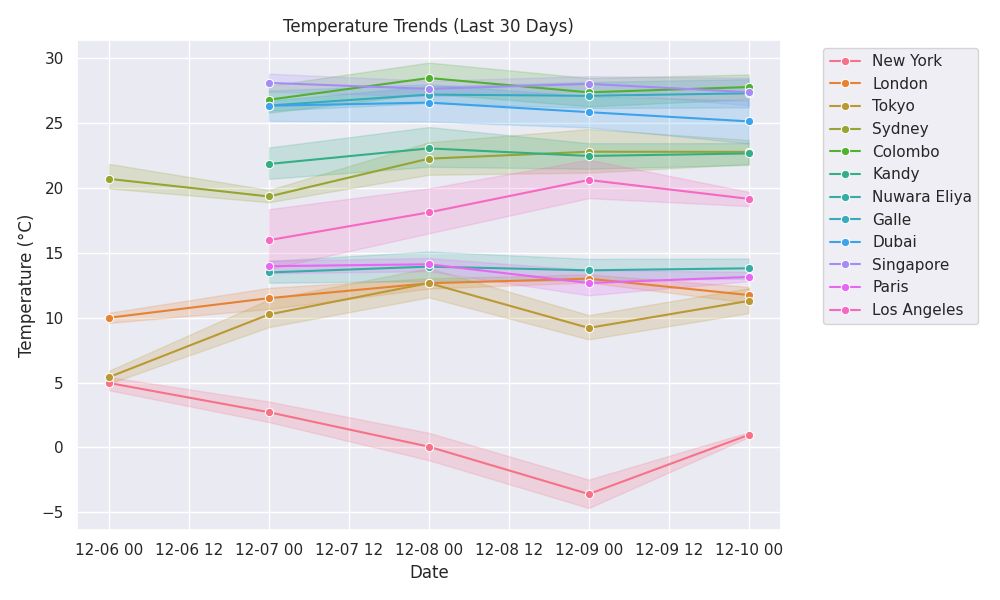
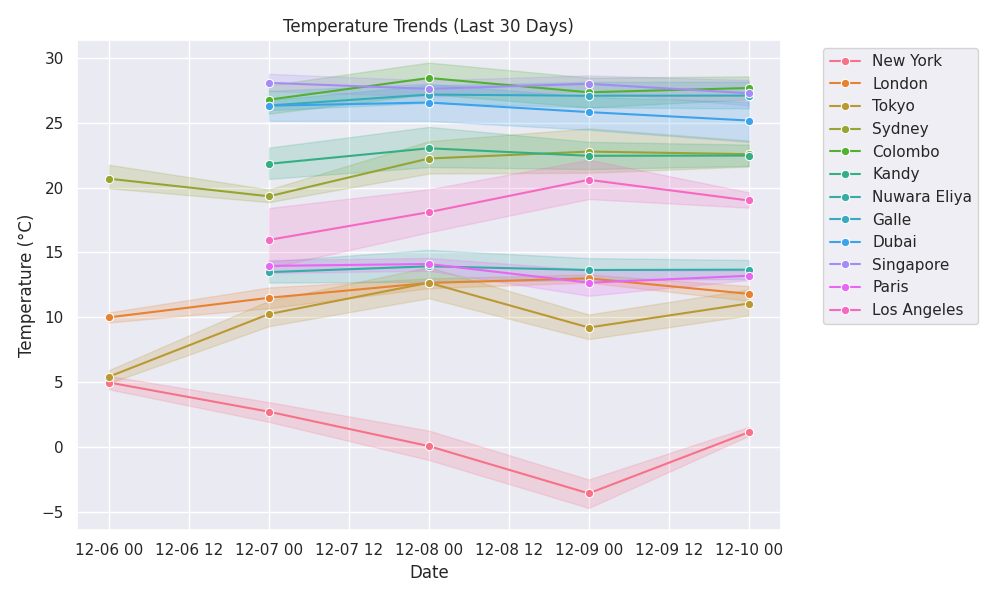
🌦 Weather update: 2025-12-10 15:16

diff --git a/public/index.html b/public/index.html
@@ -11,7 +11,7 @@
     <div class="max-w-6xl mx-auto">
         <header class="mb-8 text-center">
             <h1 class="text-4xl font-bold mb-2">🌍 Global Weather Dashboard</h1>
-            <p class="text-slate-400">Last Updated: 2025-12-10 14:16:04</p>
+            <p class="text-slate-400">Last Updated: 2025-12-10 15:16:43</p>
         </header>
         
         <!-- AI Summary -->
@@ -29,12 +29,12 @@
                     <span class="text-3xl">☁</span>
                 </div>
                 <div class="mt-4">
-                    <p class="text-4xl font-bold">14.14°C</p>
-                    <p class="text-slate-400 capitalize">broken clouds</p>
+                    <p class="text-4xl font-bold">14.05°C</p>
+                    <p class="text-slate-400 capitalize">overcast clouds</p>
                 </div>
                 <div class="mt-4 text-sm text-slate-500">
-                    <p>💧 Humidity: 80%</p>
-                    <p>💨 Wind: 3.6 m/s</p>
+                    <p>💧 Humidity: 79%</p>
+                    <p>💨 Wind: 3.09 m/s</p>
                 </div>
             </div>
             
@@ -44,12 +44,12 @@
                     <span class="text-3xl">☁</span>
                 </div>
                 <div class="mt-4">
-                    <p class="text-4xl font-bold">13.32°C</p>
+                    <p class="text-4xl font-bold">12.65°C</p>
                     <p class="text-slate-400 capitalize">few clouds</p>
                 </div>
                 <div class="mt-4 text-sm text-slate-500">
-                    <p>💧 Humidity: 68%</p>
-                    <p>💨 Wind: 7.2 m/s</p>
+                    <p>💧 Humidity: 70%</p>
+                    <p>💨 Wind: 6.69 m/s</p>
                 </div>
             </div>
             
@@ -59,12 +59,12 @@
                     <span class="text-3xl">☁</span>
                 </div>
                 <div class="mt-4">
-                    <p class="text-4xl font-bold">20.31°C</p>
+                    <p class="text-4xl font-bold">20.14°C</p>
                     <p class="text-slate-400 capitalize">overcast clouds</p>
                 </div>
                 <div class="mt-4 text-sm text-slate-500">
-                    <p>💧 Humidity: 86%</p>
-                    <p>💨 Wind: 10.29 m/s</p>
+                    <p>💧 Humidity: 85%</p>
+                    <p>💨 Wind: 9.77 m/s</p>
                 </div>
             </div>
             
@@ -78,8 +78,8 @@
                     <p class="text-slate-400 capitalize">broken clouds</p>
                 </div>
                 <div class="mt-4 text-sm text-slate-500">
-                    <p>💧 Humidity: 93%</p>
-                    <p>💨 Wind: 1.03 m/s</p>
+                    <p>💧 Humidity: 92%</p>
+                    <p>💨 Wind: 2.06 m/s</p>
                 </div>
             </div>
             
@@ -93,8 +93,8 @@
                     <p class="text-slate-400 capitalize">clear sky</p>
                 </div>
                 <div class="mt-4 text-sm text-slate-500">
-                    <p>💧 Humidity: 53%</p>
-                    <p>💨 Wind: 4.12 m/s</p>
+                    <p>💧 Humidity: 57%</p>
+                    <p>💨 Wind: 3.6 m/s</p>
                 </div>
             </div>
             
@@ -104,12 +104,12 @@
                     <span class="text-3xl">☁</span>
                 </div>
                 <div class="mt-4">
-                    <p class="text-4xl font-bold">12.03°C</p>
+                    <p class="text-4xl font-bold">11.97°C</p>
                     <p class="text-slate-400 capitalize">overcast clouds</p>
                 </div>
                 <div class="mt-4 text-sm text-slate-500">
                     <p>💧 Humidity: 98%</p>
-                    <p>💨 Wind: 1.55 m/s</p>
+                    <p>💨 Wind: 1.84 m/s</p>
                 </div>
             </div>
             
@@ -119,12 +119,12 @@
                     <span class="text-3xl">☁</span>
                 </div>
                 <div class="mt-4">
-                    <p class="text-4xl font-bold">24.54°C</p>
+                    <p class="text-4xl font-bold">24.74°C</p>
                     <p class="text-slate-400 capitalize">overcast clouds</p>
                 </div>
                 <div class="mt-4 text-sm text-slate-500">
-                    <p>💧 Humidity: 94%</p>
-                    <p>💨 Wind: 3.42 m/s</p>
+                    <p>💧 Humidity: 90%</p>
+                    <p>💨 Wind: 3.39 m/s</p>
                 </div>
             </div>
             
@@ -134,12 +134,12 @@
                     <span class="text-3xl">☁</span>
                 </div>
                 <div class="mt-4">
-                    <p class="text-4xl font-bold">20.53°C</p>
+                    <p class="text-4xl font-bold">20.22°C</p>
                     <p class="text-slate-400 capitalize">overcast clouds</p>
                 </div>
                 <div class="mt-4 text-sm text-slate-500">
-                    <p>💧 Humidity: 96%</p>
-                    <p>💨 Wind: 2.0 m/s</p>
+                    <p>💧 Humidity: 97%</p>
+                    <p>💨 Wind: 2.1 m/s</p>
                 </div>
             </div>
             
@@ -150,11 +150,11 @@
                 </div>
                 <div class="mt-4">
                     <p class="text-4xl font-bold">26.69°C</p>
-                    <p class="text-slate-400 capitalize">moderate rain</p>
+                    <p class="text-slate-400 capitalize">light rain</p>
                 </div>
                 <div class="mt-4 text-sm text-slate-500">
-                    <p>💧 Humidity: 78%</p>
-                    <p>💨 Wind: 7.63 m/s</p>
+                    <p>💧 Humidity: 79%</p>
+                    <p>💨 Wind: 6.91 m/s</p>
                 </div>
             </div>
             
@@ -164,12 +164,12 @@
                     <span class="text-3xl">☁</span>
                 </div>
                 <div class="mt-4">
-                    <p class="text-4xl font-bold">1.83°C</p>
-                    <p class="text-slate-400 capitalize">overcast clouds</p>
+                    <p class="text-4xl font-bold">3.24°C</p>
+                    <p class="text-slate-400 capitalize">broken clouds</p>
                 </div>
                 <div class="mt-4 text-sm text-slate-500">
-                    <p>💧 Humidity: 78%</p>
-                    <p>💨 Wind: 5.14 m/s</p>
+                    <p>💧 Humidity: 74%</p>
+                    <p>💨 Wind: 6.69 m/s</p>
                 </div>
             </div>
             
@@ -179,12 +179,12 @@
                     <span class="text-3xl">☁</span>
                 </div>
                 <div class="mt-4">
-                    <p class="text-4xl font-bold">9.22°C</p>
+                    <p class="text-4xl font-bold">8.11°C</p>
                     <p class="text-slate-400 capitalize">few clouds</p>
                 </div>
                 <div class="mt-4 text-sm text-slate-500">
-                    <p>💧 Humidity: 61%</p>
-                    <p>💨 Wind: 6.17 m/s</p>
+                    <p>💧 Humidity: 64%</p>
+                    <p>💨 Wind: 3.6 m/s</p>
                 </div>
             </div>
             
@@ -194,12 +194,12 @@
                     <span class="text-3xl">☁</span>
                 </div>
                 <div class="mt-4">
-                    <p class="text-4xl font-bold">18.75°C</p>
+                    <p class="text-4xl font-bold">17.14°C</p>
                     <p class="text-slate-400 capitalize">few clouds</p>
                 </div>
                 <div class="mt-4 text-sm text-slate-500">
-                    <p>💧 Humidity: 37%</p>
-                    <p>💨 Wind: 0.89 m/s</p>
+                    <p>💧 Humidity: 44%</p>
+                    <p>💨 Wind: 2.06 m/s</p>
                 </div>
             </div>
             

diff --git a/README.md b/README.md
@@ -8,8 +8,8 @@
 
 ---
 
-## ⚡ Live Status (Updated: 2025-12-10 14:16 UTC)
-![Paris](https://img.shields.io/badge/Paris-14.14°C-blue) ![London](https://img.shields.io/badge/London-13.32°C-blue) ![Sydney](https://img.shields.io/badge/Sydney-20.31°C-green) ![Singapore](https://img.shields.io/badge/Singapore-26.18°C-orange) ![Dubai](https://img.shields.io/badge/Dubai-25.96°C-orange) ![Nuwara Eliya](https://img.shields.io/badge/Nuwara%20Eliya-12.03°C-blue) ![Galle](https://img.shields.io/badge/Galle-24.54°C-green) ![Kandy](https://img.shields.io/badge/Kandy-20.53°C-green) ![Colombo](https://img.shields.io/badge/Colombo-26.69°C-orange) ![New York](https://img.shields.io/badge/New%20York-1.83°C-blue) ![Tokyo](https://img.shields.io/badge/Tokyo-9.22°C-blue) ![Los Angeles](https://img.shields.io/badge/Los%20Angeles-18.75°C-green) 
+## ⚡ Live Status (Updated: 2025-12-10 15:16 UTC)
+![Paris](https://img.shields.io/badge/Paris-14.05°C-blue) ![London](https://img.shields.io/badge/London-12.65°C-blue) ![Sydney](https://img.shields.io/badge/Sydney-20.14°C-green) ![Singapore](https://img.shields.io/badge/Singapore-26.18°C-orange) ![Dubai](https://img.shields.io/badge/Dubai-25.96°C-orange) ![Nuwara Eliya](https://img.shields.io/badge/Nuwara%20Eliya-11.97°C-blue) ![Galle](https://img.shields.io/badge/Galle-24.74°C-green) ![Kandy](https://img.shields.io/badge/Kandy-20.22°C-green) ![Colombo](https://img.shields.io/badge/Colombo-26.69°C-orange) ![New York](https://img.shields.io/badge/New%20York-3.24°C-blue) ![Tokyo](https://img.shields.io/badge/Tokyo-8.11°C-blue) ![Los Angeles](https://img.shields.io/badge/Los%20Angeles-17.14°C-green) 
 
 <div align="center">
   <h3>🏆 Weather Records (Live)</h3>
@@ -20,7 +20,7 @@
     </tr>
     <tr>
         <td align="center"><b>Colombo</b><br>26.69°C</td>
-        <td align="center"><b>New York</b><br>1.83°C</td>
+        <td align="center"><b>New York</b><br>3.24°C</td>
     </tr>
   </table>
 </div>
@@ -28,18 +28,18 @@
 ## 📊 Global Overview
 | 🌍 City | 🌡 Temp | 🌤 Condition | 💧 Humidity | 🌬 Wind |
 |---|---|---|---|---|
-| **Paris** | 14.14°C | broken clouds | 🟦🟦🟦🟦⬜ 80% | 3.6 m/s |
-| **London** | 13.32°C | few clouds | 🟦🟦🟦⬜⬜ 68% | 7.2 m/s |
-| **Sydney** | 20.31°C | overcast clouds | 🟦🟦🟦🟦⬜ 86% | 10.29 m/s |
-| **Singapore** | 26.18°C | broken clouds | 🟦🟦🟦🟦⬜ 93% | 1.03 m/s |
-| **Dubai** | 25.96°C | clear sky | 🟦🟦⬜⬜⬜ 53% | 4.12 m/s |
-| **Nuwara Eliya** | 12.03°C | overcast clouds | 🟦🟦🟦🟦⬜ 98% | 1.55 m/s |
-| **Galle** | 24.54°C | overcast clouds | 🟦🟦🟦🟦⬜ 94% | 3.42 m/s |
-| **Kandy** | 20.53°C | overcast clouds | 🟦🟦🟦🟦⬜ 96% | 2.0 m/s |
-| **Colombo** | 26.69°C | moderate rain | 🟦🟦🟦⬜⬜ 78% | 7.63 m/s |
-| **New York** | 1.83°C | overcast clouds | 🟦🟦🟦⬜⬜ 78% | 5.14 m/s |
-| **Tokyo** | 9.22°C | few clouds | 🟦🟦🟦⬜⬜ 61% | 6.17 m/s |
-| **Los Angeles** | 18.75°C | few clouds | 🟦⬜⬜⬜⬜ 37% | 0.89 m/s |
+| **Paris** | 14.05°C | overcast clouds | 🟦🟦🟦⬜⬜ 79% | 3.09 m/s |
+| **London** | 12.65°C | few clouds | 🟦🟦🟦⬜⬜ 70% | 6.69 m/s |
+| **Sydney** | 20.14°C | overcast clouds | 🟦🟦🟦🟦⬜ 85% | 9.77 m/s |
+| **Singapore** | 26.18°C | broken clouds | 🟦🟦🟦🟦⬜ 92% | 2.06 m/s |
+| **Dubai** | 25.96°C | clear sky | 🟦🟦⬜⬜⬜ 57% | 3.6 m/s |
+| **Nuwara Eliya** | 11.97°C | overcast clouds | 🟦🟦🟦🟦⬜ 98% | 1.84 m/s |
+| **Galle** | 24.74°C | overcast clouds | 🟦🟦🟦🟦⬜ 90% | 3.39 m/s |
+| **Kandy** | 20.22°C | overcast clouds | 🟦🟦🟦🟦⬜ 97% | 2.1 m/s |
+| **Colombo** | 26.69°C | light rain | 🟦🟦🟦⬜⬜ 79% | 6.91 m/s |
+| **New York** | 3.24°C | broken clouds | 🟦🟦🟦⬜⬜ 74% | 6.69 m/s |
+| **Tokyo** | 8.11°C | few clouds | 🟦🟦🟦⬜⬜ 64% | 3.6 m/s |
+| **Los Angeles** | 17.14°C | few clouds | 🟦🟦⬜⬜⬜ 44% | 2.06 m/s |
 
 
 ## 📈 Temperature Trends
